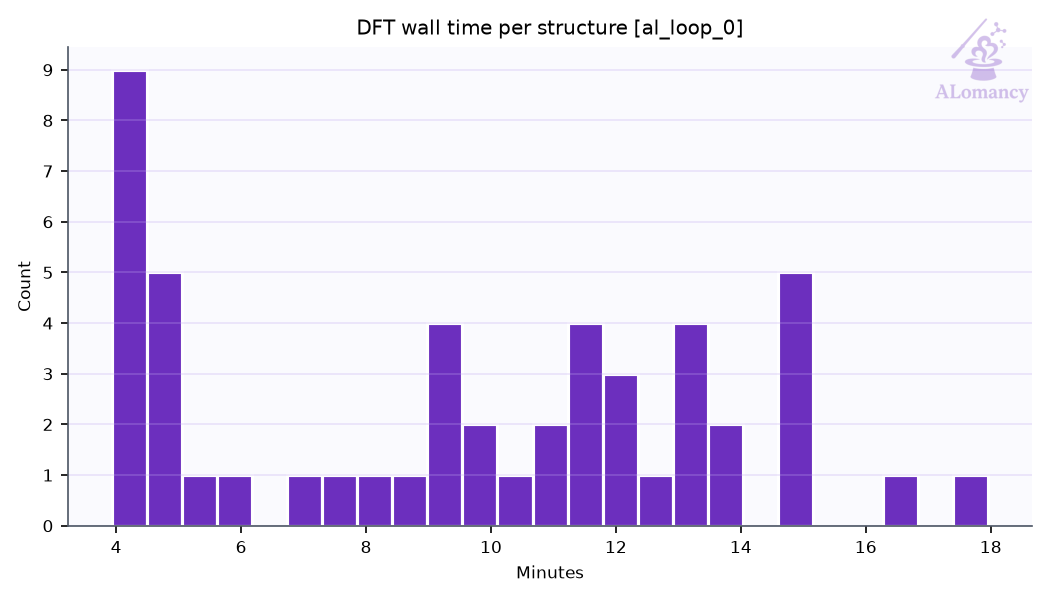
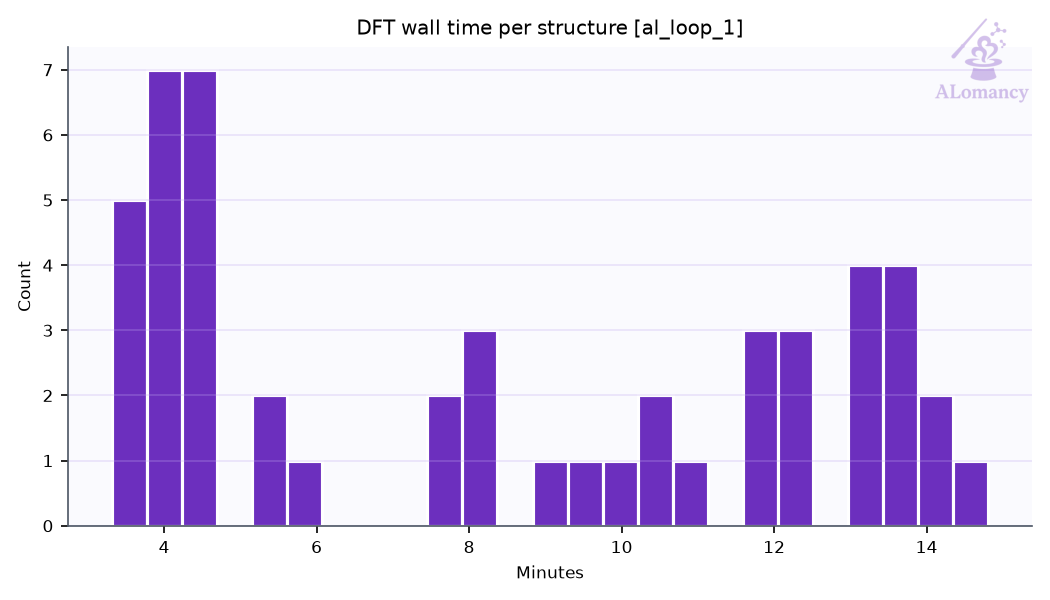
update viper_omat_ezga_committee, viper_omat_md_random

diff --git a/alomancy/viper_omat_md_random/report/report.md b/alomancy/viper_omat_md_random/report/report.md
@@ -1,31 +1,33 @@
-# ALomancy report: al_loop_0
+# ALomancy report: al_loop_1
 
-Workflow `random_selection` · trainer `mace` · generator `md` · evaluator `qe` · generated 2026-11-23T06:26:13
+Workflow `random_selection` · trainer `mace` · generator `md` · evaluator `qe` · generated 2026-11-27T05:35:09
 
-**Status:** 💡 1 info · 2 warning(s) logged
+**Status:** 💡 2 infos · 2 warning(s) logged
 
 ## Headline
 
-| | previous | loop 0 | change |
+| | loop 0 | loop 1 | change |
 |---|---:|---:|---:|
-| Best model test force MAE (eV/Å) | n/a | 0.0724 |  |
-| Best model test energy MAE (meV/atom) | n/a | 33.6 |  |
-| Training structures | n/a | 449 |  |
-| Test structures | n/a | 28 |  |
-| New structures this loop | n/a | 50 |  |
-| Warnings / errors logged | n/a | 2 |  |
+| Best model test force MAE (eV/Å) | 0.0724 | 0.125 | +73% |
+| Best model test energy MAE (meV/atom) | 33.6 | 42.9 | +28% |
+| Training structures | 449 | 539 | +20% |
+| Test structures | 28 | 38 | +36% |
+| New structures this loop | 50 | 35 | -30% |
+| Warnings / errors logged | 2 | 2 | +0% |
 
 Best model: fit_0 of 1 (chosen on the `valid` split).
 
 ## Issues & suggestions
 
-- 💡 **queue_dominated**: high_accuracy_evaluation spent 99% of its time (98.1 h) queued. Raise max_num_of_concurrent_jobs in the HPC profile or use a less busy partition.
+- 💡 **queue_dominated**: high_accuracy_evaluation spent 71% of its time (66.7 h) queued. Raise max_num_of_concurrent_jobs in the HPC profile or use a less busy partition.
+- 💡 **overfitting**: The best model's test force MAE (0.125 eV/Å) is 2.8x its training MAE (0.0442 eV/Å). The test set covers configurations training doesn't: keep adding data, or raise general.dataset_kwargs.valid_fraction to select models on held-out data.
 
 ## Trends
 
 | loop | test F-MAE (eV/Å) | train | new | DFT returned | GO converged | new redundant | warnings |
 |---:|---:|---:|---:|---:|---:|---:|---:|
 | 0 | 0.0724 | 449 | 50 | 50/50 | 100% | 0 | 2 |
+| 1 | 0.125 | 539 | 35 | 50/50 | 100% | 0 | 2 |
 
 ![Best-model MAE per loop](plots/training_al_loop_mae_plot.png)
 
@@ -35,7 +37,7 @@ Best model: fit_0 of 1 (chosen on the `valid` split).
 
 ![Best model parity](plots/best_model_parity.png)
 
-Median relative error: train energy 1.0%, force 6.3%; test energy 0.3%, force 16.7%.
+Median relative error: train energy 0.7%, force 3.9%; test energy 0.3%, force 12.6%.
 Energies with |formation energy| < 0.05 eV/atom and atoms with |F| < 0.1 eV/Å are left out; force error is |ΔF|/|F| per atom.
 
 ![Best model percentage error](plots/best_model_percent_error.png)
@@ -51,11 +53,11 @@ Energies with |formation energy| < 0.05 eV/atom and atoms with |F| < 0.1 eV/Å a
 | init_rattle | 41 | 1 | 232 | 274 |
 | init_stretch_compress | 126 | 13 | 129 | 268 |
 | init_trimer | 79 | 0 | 0 | 79 |
-| random_selection | 90 | 10 | 0 | 100 |
-| **all** | **449** | **28** | **361** | **838** |
+| random_selection | 180 | 20 | 0 | 200 |
+| **all** | **539** | **38** | **361** | **938** |
 
-- Redundancy removal: 0 structure(s) flagged in total, 0 of this loop's 50 new.
-- DFT geometry-optimisation starting frames: 50 stored this loop, 50 used (the rest excluded by the train/test filters or redundancy removal).
+- Redundancy removal: 0 structure(s) flagged in total, 0 of this loop's 35 new.
+- DFT geometry-optimisation starting frames: 65 stored this loop, 65 used (the rest excluded by the train/test filters or redundancy removal).
 - Quality filters: high_force: 361, formation_energy: 17.
 
 ![Training set composition](plots/training_set_composition.png)
@@ -64,17 +66,17 @@ Energies with |formation energy| < 0.05 eV/atom and atoms with |F| < 0.1 eV/Å a
 
 Redundancy removal flags near-duplicate training structures, so the model isn't trained on many copies of the same geometry. Each structure is described by `char_vec_128`: all of its interatomic distances, sorted and resampled to 128 values (`global_descriptor/atomic_distance_descriptor.make_char_vec`). Two structures count as duplicates when the Euclidean distance between their descriptors is below a tolerance: in database order, each structure still in the training set is kept unless it is within the tolerance of one already kept. The plot sweeps that tolerance and counts how many structures are kept at each value. **We are looking for plateaus** (shaded): ranges where the count doesn't change, so the result doesn't depend on the exact tolerance. The orange line (right axis) is the number of structures removed between consecutive tolerance steps, the gradient of the count: zero on a plateau. The start of the lowest plateau at least `general.redundancy_kwargs.min_plateau_width` of the swept range wide is used (dashed line). Nothing is flagged when no plateau qualifies, or when it would flag more than `max_flagged_fraction` of the structures; `general.redundancy_kwargs.tolerance` sets the tolerance directly.
 
-- This loop: 164 structures probed; the lowest plateau would flag more than 50% of them, so nothing was flagged.
+- This loop: 254 structures probed; the lowest plateau would flag more than 50% of them, so nothing was flagged.
 
 ![Redundancy tolerance probe](plots/redundancy_tolerance_probe.png)
 
 ## DFT
 
 - Structures: 50 returned of 50 submitted (50 relaxed, 0 single point).
-- Geometry optimisation: 50/50 reached the force ceiling (0.05 eV/Å); steps mean 14.3, median 13, max 33 of 200 allowed.
-- Average DFT time per relaxation: 9.5 min (median 9.6, max 18.0; 50 structures).
+- Geometry optimisation: 50/50 reached the force ceiling (0.05 eV/Å); steps mean 13.6, median 12, max 31 of 200 allowed.
+- Average DFT time per relaxation: 8.3 min (median 8.0, max 14.8; 50 structures).
 - Largest per-atom force after DFT: median 0.04, max 0.05 eV/Å.
-- DFT phase wall-clock: 98.8 h (mean queue time 5888 min).
+- DFT phase wall-clock: 93.5 h (mean queue time 4001 min).
 
 **Structures evaluated with DFT this loop (final geometries)**
 
@@ -82,14 +84,14 @@ Redundancy removal flags near-duplicate training structures, so the model isn't 
 
 ## MLIP training: mace
 
-- Best fit (fit_0) trained for 299 epochs, stage two from epoch 240; weights kept from epoch 244.
+- Best fit (fit_0) trained for 299 epochs, stage two from epoch 240; weights kept from epoch 242.
 
 ![Best model training curve](plots/best_model_training_curve.png)
 
 ## Structure generation: MD
 
 - Runs: 50 (50 completed, 0 seed(s) replaced)
-- Frames: 5000 recorded, 4950 physical (no bond < 0.5 Å, volume ≤ 3 x the seed's, seed frames left out), 500 picked as candidates, spread over each run
+- Frames: 5000 recorded, 4908 physical (no bond < 0.5 Å, volume ≤ 3 x the seed's; 42 frame(s) cut after a run expanded past it, seed frames left out), 500 picked as candidates, spread over each run
 - Ensemble npt, T = 500 K, timestep 0.2 fs
 
 ![MD frames per run](plots/md_frames_per_run.png)
@@ -107,12 +109,9 @@ Redundancy removal flags near-duplicate training structures, so the model isn't 
 | event | meaning | count |
 |---|---|---:|
 | `dft_summary` | DFT batch summary | 1 |
-| `job_still_queued` | jobs still queued after their time limit (waiting on) | 182 |
-| `jobs_started` | remote jobs started | 2 |
+| `job_still_queued` | jobs still queued after their time limit (waiting on) | 100 |
+| `jobs_started` | remote jobs started | 3 |
 | `md_summary` | MD summary | 1 |
+| `md_volume_expanded` | MD runs cut after expanding past max_volume_ratio | 1 |
 | `quality_filtered` | train/test quality filter passes | 2 |
 | `redundancy_cap_hit` | redundancy removal skipped (would flag too many) | 1 |
-
-Other warnings (most frequent first):
-
-- (1x) Only 30 structures available for 50 concurrent structure_generation jobs; reusing structures to fill the requested concurrency. Each reused structure is assigned a distinct MD seed (atoms.info['md_see
